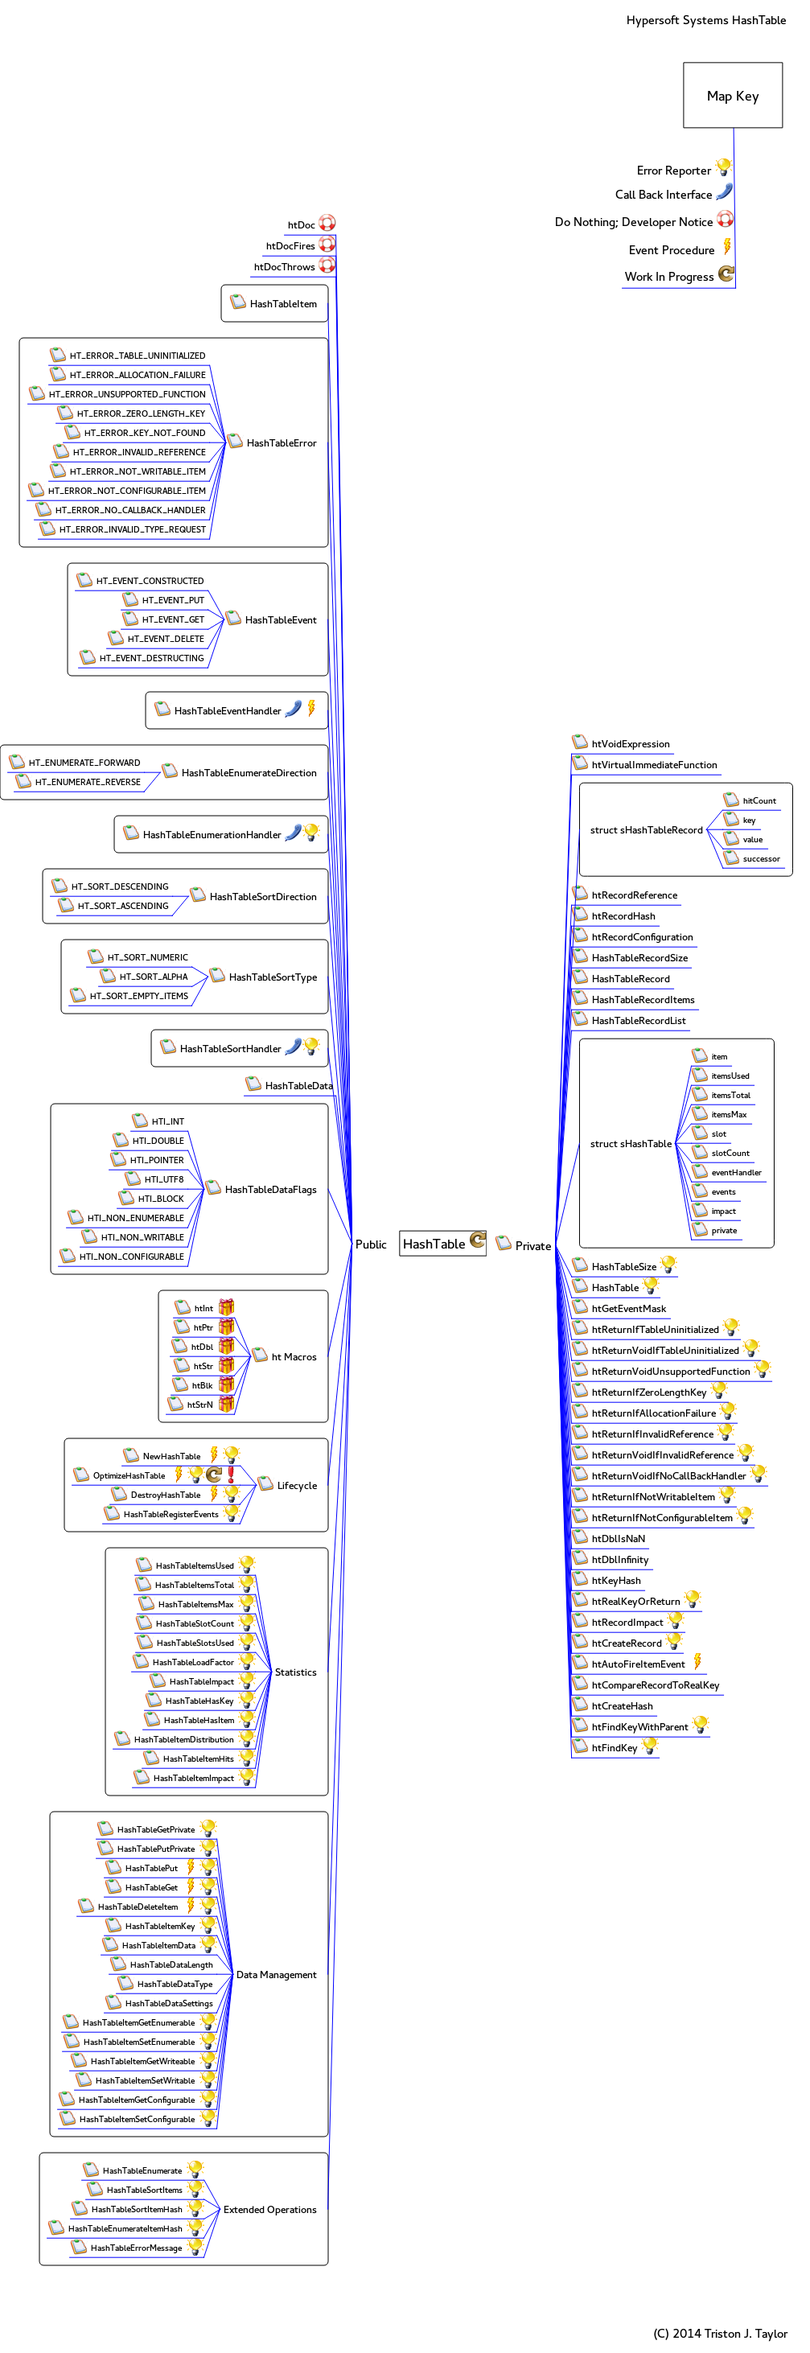
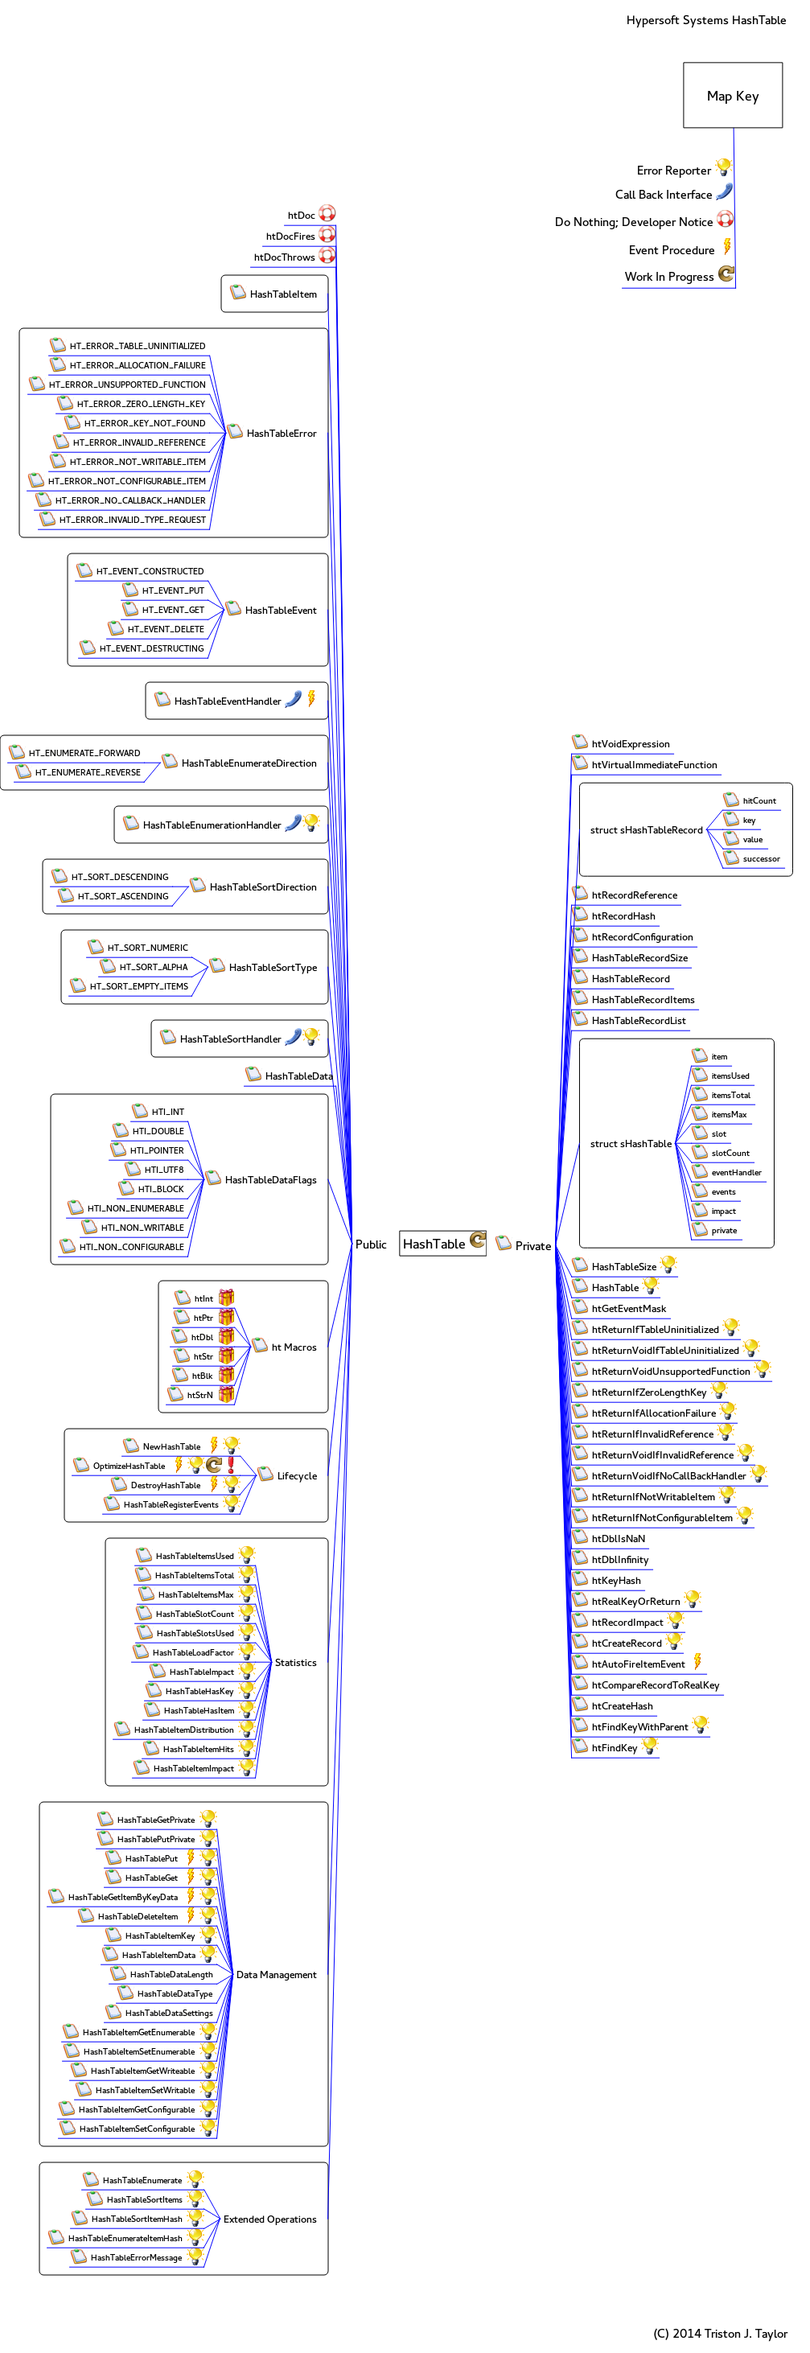
kv api meld level II

Changed region(s): [[0.0, 0.0933, 0.431, 0.9644], [0.0616, 0.7778, 0.0924, 0.8089]]

diff --git a/HashTable.html b/HashTable.html
@@ -377,62 +377,67 @@ HashTableItem HashTablePut(HashTable ht, size_t keyLength, double key, HashTable
 HashTableItem HashTableGet(HashTable ht, size_t keyLength, double key, HashTableDataFlags hint)<br/><br/>Get's an item reference by its key.<br/>
 </td></tr></table>
 </li>
-<li><span class='vym-branch3'  id='mc:1,bo:0,bo:17,bo:4'>HashTableDeleteItem</span>
+<li><span class='vym-branch3'  id='mc:1,bo:0,bo:17,bo:4'>HashTableGetItemByKeyData</span>
+<table class="vym-note"><tr><td>
+HashTableItem HashTableGetItemByKeyData(HashTable hashTable, HashTableData realKey)<br/><br/>Retrieve an item index by it's key pointer.
+</td></tr></table>
+</li>
+<li><span class='vym-branch3'  id='mc:1,bo:0,bo:17,bo:5'>HashTableDeleteItem</span>
 <table class="vym-note"><tr><td>
 bool HashTableDeleteItem(HashTable ht, HashTableItem reference)<br/><br/>Removes an item from a hash table.
 </td></tr></table>
 </li>
-<li><span class='vym-branch3'  id='mc:1,bo:0,bo:17,bo:5'>HashTableItemKey</span>
+<li><span class='vym-branch3'  id='mc:1,bo:0,bo:17,bo:6'>HashTableItemKey</span>
 <table class="vym-note"><tr><td>
 HashTableData HashTableItemKey(HashTable hashTable, HashTableItem reference)<br/><br/>Returns a constant pointer to an item's key.<br/>
 </td></tr></table>
 </li>
-<li><span class='vym-branch3'  id='mc:1,bo:0,bo:17,bo:6'>HashTableItemData</span>
+<li><span class='vym-branch3'  id='mc:1,bo:0,bo:17,bo:7'>HashTableItemData</span>
 <table class="vym-note"><tr><td>
 HashTableData HashTableItemData(HashTable hashTable, HashTableItem reference)<br/><br/>Returns a constant pointer to an item's value.<br/>
 </td></tr></table>
 </li>
-<li><span class='vym-branch3'  id='mc:1,bo:0,bo:17,bo:7'>HashTableDataLength</span>
+<li><span class='vym-branch3'  id='mc:1,bo:0,bo:17,bo:8'>HashTableDataLength</span>
 <table class="vym-note"><tr><td>
 size_t HashTableDataLength(const HashTableData data)<br/><br/>Retrieves the length of the data reference.<br/>
 </td></tr></table>
 </li>
-<li><span class='vym-branch3'  id='mc:1,bo:0,bo:17,bo:8'>HashTableDataType</span>
+<li><span class='vym-branch3'  id='mc:1,bo:0,bo:17,bo:9'>HashTableDataType</span>
 <table class="vym-note"><tr><td>
 HashTableDataFlags HashTableDataType(HashTableData data)<br/><br/>Returns the type information associated with an item's value.<br/>
 </td></tr></table>
 </li>
-<li><span class='vym-branch3'  id='mc:1,bo:0,bo:17,bo:9'>HashTableDataSettings</span>
+<li><span class='vym-branch3'  id='mc:1,bo:0,bo:17,bo:10'>HashTableDataSettings</span>
 <table class="vym-note"><tr><td>
 HashTableDataFlags HashTableDataSettings(HashTableData data)<br/><br/>Retrieve all configuration flags for an item value.<br/>
 </td></tr></table>
 </li>
-<li><span class='vym-branch3'  id='mc:1,bo:0,bo:17,bo:10'>HashTableItemGetEnumerable</span>
+<li><span class='vym-branch3'  id='mc:1,bo:0,bo:17,bo:11'>HashTableItemGetEnumerable</span>
 <table class="vym-note"><tr><td>
 bool HashTableItemGetEnumerable(HashTable hashTable, HashTableItem reference)<br/><br/>Get the item's enumerable flag.<br/>
 </td></tr></table>
 </li>
-<li><span class='vym-branch3'  id='mc:1,bo:0,bo:17,bo:11'>HashTableItemSetEnumerable</span>
+<li><span class='vym-branch3'  id='mc:1,bo:0,bo:17,bo:12'>HashTableItemSetEnumerable</span>
 <table class="vym-note"><tr><td>
 bool HashTableItemSetEnumerable(HashTable hashTable, HashTableItem reference, bool value)<br/><br/>If the item is configurable, set the item's enumerable flag to value.<br/>
 </td></tr></table>
 </li>
-<li><span class='vym-branch3'  id='mc:1,bo:0,bo:17,bo:12'>HashTableItemGetWriteable</span>
+<li><span class='vym-branch3'  id='mc:1,bo:0,bo:17,bo:13'>HashTableItemGetWriteable</span>
 <table class="vym-note"><tr><td>
 bool HashTableItemGetWritable(HashTable hashTable, HashTableItem reference)<br/><br/>Get the item's writable flag.<br/>
 </td></tr></table>
 </li>
-<li><span class='vym-branch3'  id='mc:1,bo:0,bo:17,bo:13'>HashTableItemSetWritable</span>
+<li><span class='vym-branch3'  id='mc:1,bo:0,bo:17,bo:14'>HashTableItemSetWritable</span>
 <table class="vym-note"><tr><td>
 bool HashTableItemSetWritable(HashTable hashTable, HashTableItem reference, bool value)<br/><br/>If the item is configurable, set the item's writable flag to value.<br/>
 </td></tr></table>
 </li>
-<li><span class='vym-branch3'  id='mc:1,bo:0,bo:17,bo:14'>HashTableItemGetConfigurable</span>
+<li><span class='vym-branch3'  id='mc:1,bo:0,bo:17,bo:15'>HashTableItemGetConfigurable</span>
 <table class="vym-note"><tr><td>
 bool HashTableItemGetConfigurable(HashTable hashTable, HashTableItem reference)<br/><br/>Get the item's configurable flag.<br/><br/>
 </td></tr></table>
 </li>
-<li><span class='vym-branch3'  id='mc:1,bo:0,bo:17,bo:15'>HashTableItemSetConfigurable</span>
+<li><span class='vym-branch3'  id='mc:1,bo:0,bo:17,bo:16'>HashTableItemSetConfigurable</span>
 <table class="vym-note"><tr><td>
 bool HashTableItemSetConfigurable(HashTable hashTable, HashTableItem reference, bool value)<br/><br/>If the item is configurable, set the configurable flag to value.<br/>
 </td></tr></table>
@@ -729,98 +734,99 @@ HashTableRecord htFindKey(HashTable table, size_t keyLength, void * realKey)<br/
   <area shape='rect' coords='788.392,197.351,889.392,226.351' href='#mc:0,bo:4'>
   <area shape='rect' coords='496.851,1530.13,582.851,1561.13' href='#mc:1'>
   <area shape='rect' coords='438,1531.52,485,1560.52' href='#mc:1,bo:0'>
-  <area shape='rect' coords='354,266.023,396,292.023' href='#mc:1,bo:0,bo:0'>
-  <area shape='rect' coords='327,292.023,396,318.023' href='#mc:1,bo:0,bo:1'>
-  <area shape='rect' coords='312,318.023,396,344.023' href='#mc:1,bo:0,bo:2'>
-  <area shape='rect' coords='307,364.023,398,390.023' href='#mc:1,bo:0,bo:3'>
-  <area shape='rect' coords='303,537.023,398,563.023' href='#mc:1,bo:0,bo:4'>
-  <area shape='rect' coords='83,430.023,261,454.023' href='#mc:1,bo:0,bo:4,bo:0'>
-  <area shape='rect' coords='83,454.023,261,478.023' href='#mc:1,bo:0,bo:4,bo:1'>
-  <area shape='rect' coords='57,478.023,261,502.023' href='#mc:1,bo:0,bo:4,bo:2'>
-  <area shape='rect' coords='92,502.023,261,526.023' href='#mc:1,bo:0,bo:4,bo:3'>
-  <area shape='rect' coords='101,526.023,261,550.023' href='#mc:1,bo:0,bo:4,bo:4'>
-  <area shape='rect' coords='87,550.023,261,574.023' href='#mc:1,bo:0,bo:4,bo:5'>
-  <area shape='rect' coords='83,574.023,261,598.023' href='#mc:1,bo:0,bo:4,bo:6'>
-  <area shape='rect' coords='56,598.023,261,622.023' href='#mc:1,bo:0,bo:4,bo:7'>
-  <area shape='rect' coords='65,622.023,261,646.023' href='#mc:1,bo:0,bo:4,bo:8'>
-  <area shape='rect' coords='70,646.023,261,670.023' href='#mc:1,bo:0,bo:4,bo:9'>
-  <area shape='rect' coords='301,757.023,398,783.023' href='#mc:1,bo:0,bo:5'>
-  <area shape='rect' coords='116,710.023,259,734.023' href='#mc:1,bo:0,bo:5,bo:0'>
-  <area shape='rect' coords='173,734.023,259,758.023' href='#mc:1,bo:0,bo:5,bo:1'>
-  <area shape='rect' coords='173,758.023,259,782.023' href='#mc:1,bo:0,bo:5,bo:2'>
-  <area shape='rect' coords='155,782.023,259,806.023' href='#mc:1,bo:0,bo:5,bo:3'>
-  <area shape='rect' coords='120,806.023,259,830.023' href='#mc:1,bo:0,bo:5,bo:4'>
-  <area shape='rect' coords='213,870.023,354,896.023' href='#mc:1,bo:0,bo:6'>
-  <area shape='rect' coords='222,947.023,398,973.023' href='#mc:1,bo:0,bo:7'>
-  <area shape='rect' coords='32,936.023,180,960.023' href='#mc:1,bo:0,bo:7,bo:0'>
-  <area shape='rect' coords='40,960.023,180,984.023' href='#mc:1,bo:0,bo:7,bo:1'>
-  <area shape='rect' coords='174,1024.02,354,1050.02' href='#mc:1,bo:0,bo:8'>
-  <area shape='rect' coords='257,1101.02,398,1127.02' href='#mc:1,bo:0,bo:9'>
-  <area shape='rect' coords='85,1090.02,215,1114.02' href='#mc:1,bo:0,bo:9,bo:0'>
-  <area shape='rect' coords='93,1114.02,215,1138.02' href='#mc:1,bo:0,bo:9,bo:1'>
-  <area shape='rect' coords='281,1201.02,398,1227.02' href='#mc:1,bo:0,bo:10'>
-  <area shape='rect' coords='130,1178.02,239,1202.02' href='#mc:1,bo:0,bo:10,bo:0'>
-  <area shape='rect' coords='145,1202.02,239,1226.02' href='#mc:1,bo:0,bo:10,bo:1'>
-  <area shape='rect' coords='108,1226.02,239,1250.02' href='#mc:1,bo:0,bo:10,bo:2'>
-  <area shape='rect' coords='220,1290.02,354,1316.02' href='#mc:1,bo:0,bo:11'>
-  <area shape='rect' coords='326,1336.02,418,1362.02' href='#mc:1,bo:0,bo:12'>
-  <area shape='rect' coords='276,1465.02,398,1491.02' href='#mc:1,bo:0,bo:13'>
-  <area shape='rect' coords='185,1382.02,234,1406.02' href='#mc:1,bo:0,bo:13,bo:0'>
-  <area shape='rect' coords='161,1406.02,234,1430.02' href='#mc:1,bo:0,bo:13,bo:1'>
-  <area shape='rect' coords='158,1430.02,234,1454.02' href='#mc:1,bo:0,bo:13,bo:2'>
-  <area shape='rect' coords='176,1454.02,234,1478.02' href='#mc:1,bo:0,bo:13,bo:3'>
-  <area shape='rect' coords='168,1478.02,234,1502.02' href='#mc:1,bo:0,bo:13,bo:4'>
-  <area shape='rect' coords='105,1502.02,234,1526.02' href='#mc:1,bo:0,bo:13,bo:5'>
-  <area shape='rect' coords='122,1526.02,234,1550.02' href='#mc:1,bo:0,bo:13,bo:6'>
-  <area shape='rect' coords='95,1550.02,234,1574.02' href='#mc:1,bo:0,bo:13,bo:7'>
-  <area shape='rect' coords='334,1673.02,398,1699.02' href='#mc:1,bo:0,bo:14'>
-  <area shape='rect' coords='238,1614.02,270,1638.02' href='#mc:1,bo:0,bo:14,bo:0'>
-  <area shape='rect' coords='237,1638.02,270,1662.02' href='#mc:1,bo:0,bo:14,bo:1'>
-  <area shape='rect' coords='234,1662.02,270,1686.02' href='#mc:1,bo:0,bo:14,bo:2'>
-  <area shape='rect' coords='237,1686.02,270,1710.02' href='#mc:1,bo:0,bo:14,bo:3'>
-  <area shape='rect' coords='235,1710.02,270,1734.02' href='#mc:1,bo:0,bo:14,bo:4'>
-  <area shape='rect' coords='229,1734.02,270,1758.02' href='#mc:1,bo:0,bo:14,bo:5'>
-  <area shape='rect' coords='341,1833.02,398,1859.02' href='#mc:1,bo:0,bo:15'>
-  <area shape='rect' coords='174,1798.02,255,1822.02' href='#mc:1,bo:0,bo:15,bo:0'>
-  <area shape='rect' coords='112,1822.02,211,1846.02' href='#mc:1,bo:0,bo:15,bo:1'>
-  <area shape='rect' coords='159,1846.02,255,1870.02' href='#mc:1,bo:0,bo:15,bo:2'>
-  <area shape='rect' coords='150,1870.02,277,1894.02' href='#mc:1,bo:0,bo:15,bo:3'>
-  <area shape='rect' coords='338,2065.02,398,2091.02' href='#mc:1,bo:0,bo:16'>
-  <area shape='rect' coords='190,1934.02,296,1958.02' href='#mc:1,bo:0,bo:16,bo:0'>
-  <area shape='rect' coords='189,1958.02,296,1982.02' href='#mc:1,bo:0,bo:16,bo:1'>
-  <area shape='rect' coords='193,1982.02,296,2006.02' href='#mc:1,bo:0,bo:16,bo:2'>
-  <area shape='rect' coords='190,2006.02,296,2030.02' href='#mc:1,bo:0,bo:16,bo:3'>
-  <area shape='rect' coords='191,2030.02,296,2054.02' href='#mc:1,bo:0,bo:16,bo:4'>
-  <area shape='rect' coords='186,2054.02,296,2078.02' href='#mc:1,bo:0,bo:16,bo:5'>
-  <area shape='rect' coords='207,2078.02,296,2102.02' href='#mc:1,bo:0,bo:16,bo:6'>
-  <area shape='rect' coords='202,2102.02,296,2126.02' href='#mc:1,bo:0,bo:16,bo:7'>
-  <area shape='rect' coords='200,2126.02,296,2150.02' href='#mc:1,bo:0,bo:16,bo:8'>
-  <area shape='rect' coords='163,2150.02,296,2174.02' href='#mc:1,bo:0,bo:16,bo:9'>
-  <area shape='rect' coords='199,2174.02,296,2198.02' href='#mc:1,bo:0,bo:16,bo:10'>
-  <area shape='rect' coords='187,2198.02,296,2222.02' href='#mc:1,bo:0,bo:16,bo:11'>
+  <area shape='rect' coords='354,254.023,396,280.023' href='#mc:1,bo:0,bo:0'>
+  <area shape='rect' coords='327,280.023,396,306.023' href='#mc:1,bo:0,bo:1'>
+  <area shape='rect' coords='312,306.023,396,332.023' href='#mc:1,bo:0,bo:2'>
+  <area shape='rect' coords='307,352.023,398,378.023' href='#mc:1,bo:0,bo:3'>
+  <area shape='rect' coords='303,525.023,398,551.023' href='#mc:1,bo:0,bo:4'>
+  <area shape='rect' coords='83,418.023,261,442.023' href='#mc:1,bo:0,bo:4,bo:0'>
+  <area shape='rect' coords='83,442.023,261,466.023' href='#mc:1,bo:0,bo:4,bo:1'>
+  <area shape='rect' coords='57,466.023,261,490.023' href='#mc:1,bo:0,bo:4,bo:2'>
+  <area shape='rect' coords='92,490.023,261,514.023' href='#mc:1,bo:0,bo:4,bo:3'>
+  <area shape='rect' coords='101,514.023,261,538.023' href='#mc:1,bo:0,bo:4,bo:4'>
+  <area shape='rect' coords='87,538.023,261,562.023' href='#mc:1,bo:0,bo:4,bo:5'>
+  <area shape='rect' coords='83,562.023,261,586.023' href='#mc:1,bo:0,bo:4,bo:6'>
+  <area shape='rect' coords='56,586.023,261,610.023' href='#mc:1,bo:0,bo:4,bo:7'>
+  <area shape='rect' coords='65,610.023,261,634.023' href='#mc:1,bo:0,bo:4,bo:8'>
+  <area shape='rect' coords='70,634.023,261,658.023' href='#mc:1,bo:0,bo:4,bo:9'>
+  <area shape='rect' coords='301,745.023,398,771.023' href='#mc:1,bo:0,bo:5'>
+  <area shape='rect' coords='116,698.023,259,722.023' href='#mc:1,bo:0,bo:5,bo:0'>
+  <area shape='rect' coords='173,722.023,259,746.023' href='#mc:1,bo:0,bo:5,bo:1'>
+  <area shape='rect' coords='173,746.023,259,770.023' href='#mc:1,bo:0,bo:5,bo:2'>
+  <area shape='rect' coords='155,770.023,259,794.023' href='#mc:1,bo:0,bo:5,bo:3'>
+  <area shape='rect' coords='120,794.023,259,818.023' href='#mc:1,bo:0,bo:5,bo:4'>
+  <area shape='rect' coords='213,858.023,354,884.023' href='#mc:1,bo:0,bo:6'>
+  <area shape='rect' coords='222,935.023,398,961.023' href='#mc:1,bo:0,bo:7'>
+  <area shape='rect' coords='32,924.023,180,948.023' href='#mc:1,bo:0,bo:7,bo:0'>
+  <area shape='rect' coords='40,948.023,180,972.023' href='#mc:1,bo:0,bo:7,bo:1'>
+  <area shape='rect' coords='174,1012.02,354,1038.02' href='#mc:1,bo:0,bo:8'>
+  <area shape='rect' coords='257,1089.02,398,1115.02' href='#mc:1,bo:0,bo:9'>
+  <area shape='rect' coords='85,1078.02,215,1102.02' href='#mc:1,bo:0,bo:9,bo:0'>
+  <area shape='rect' coords='93,1102.02,215,1126.02' href='#mc:1,bo:0,bo:9,bo:1'>
+  <area shape='rect' coords='281,1189.02,398,1215.02' href='#mc:1,bo:0,bo:10'>
+  <area shape='rect' coords='130,1166.02,239,1190.02' href='#mc:1,bo:0,bo:10,bo:0'>
+  <area shape='rect' coords='145,1190.02,239,1214.02' href='#mc:1,bo:0,bo:10,bo:1'>
+  <area shape='rect' coords='108,1214.02,239,1238.02' href='#mc:1,bo:0,bo:10,bo:2'>
+  <area shape='rect' coords='220,1278.02,354,1304.02' href='#mc:1,bo:0,bo:11'>
+  <area shape='rect' coords='326,1324.02,418,1350.02' href='#mc:1,bo:0,bo:12'>
+  <area shape='rect' coords='276,1453.02,398,1479.02' href='#mc:1,bo:0,bo:13'>
+  <area shape='rect' coords='185,1370.02,234,1394.02' href='#mc:1,bo:0,bo:13,bo:0'>
+  <area shape='rect' coords='161,1394.02,234,1418.02' href='#mc:1,bo:0,bo:13,bo:1'>
+  <area shape='rect' coords='158,1418.02,234,1442.02' href='#mc:1,bo:0,bo:13,bo:2'>
+  <area shape='rect' coords='176,1442.02,234,1466.02' href='#mc:1,bo:0,bo:13,bo:3'>
+  <area shape='rect' coords='168,1466.02,234,1490.02' href='#mc:1,bo:0,bo:13,bo:4'>
+  <area shape='rect' coords='105,1490.02,234,1514.02' href='#mc:1,bo:0,bo:13,bo:5'>
+  <area shape='rect' coords='122,1514.02,234,1538.02' href='#mc:1,bo:0,bo:13,bo:6'>
+  <area shape='rect' coords='95,1538.02,234,1562.02' href='#mc:1,bo:0,bo:13,bo:7'>
+  <area shape='rect' coords='334,1661.02,398,1687.02' href='#mc:1,bo:0,bo:14'>
+  <area shape='rect' coords='238,1602.02,270,1626.02' href='#mc:1,bo:0,bo:14,bo:0'>
+  <area shape='rect' coords='237,1626.02,270,1650.02' href='#mc:1,bo:0,bo:14,bo:1'>
+  <area shape='rect' coords='234,1650.02,270,1674.02' href='#mc:1,bo:0,bo:14,bo:2'>
+  <area shape='rect' coords='237,1674.02,270,1698.02' href='#mc:1,bo:0,bo:14,bo:3'>
+  <area shape='rect' coords='235,1698.02,270,1722.02' href='#mc:1,bo:0,bo:14,bo:4'>
+  <area shape='rect' coords='229,1722.02,270,1746.02' href='#mc:1,bo:0,bo:14,bo:5'>
+  <area shape='rect' coords='341,1821.02,398,1847.02' href='#mc:1,bo:0,bo:15'>
+  <area shape='rect' coords='174,1786.02,255,1810.02' href='#mc:1,bo:0,bo:15,bo:0'>
+  <area shape='rect' coords='112,1810.02,211,1834.02' href='#mc:1,bo:0,bo:15,bo:1'>
+  <area shape='rect' coords='159,1834.02,255,1858.02' href='#mc:1,bo:0,bo:15,bo:2'>
+  <area shape='rect' coords='150,1858.02,277,1882.02' href='#mc:1,bo:0,bo:15,bo:3'>
+  <area shape='rect' coords='338,2053.02,398,2079.02' href='#mc:1,bo:0,bo:16'>
+  <area shape='rect' coords='190,1922.02,296,1946.02' href='#mc:1,bo:0,bo:16,bo:0'>
+  <area shape='rect' coords='189,1946.02,296,1970.02' href='#mc:1,bo:0,bo:16,bo:1'>
+  <area shape='rect' coords='193,1970.02,296,1994.02' href='#mc:1,bo:0,bo:16,bo:2'>
+  <area shape='rect' coords='190,1994.02,296,2018.02' href='#mc:1,bo:0,bo:16,bo:3'>
+  <area shape='rect' coords='191,2018.02,296,2042.02' href='#mc:1,bo:0,bo:16,bo:4'>
+  <area shape='rect' coords='186,2042.02,296,2066.02' href='#mc:1,bo:0,bo:16,bo:5'>
+  <area shape='rect' coords='207,2066.02,296,2090.02' href='#mc:1,bo:0,bo:16,bo:6'>
+  <area shape='rect' coords='202,2090.02,296,2114.02' href='#mc:1,bo:0,bo:16,bo:7'>
+  <area shape='rect' coords='200,2114.02,296,2138.02' href='#mc:1,bo:0,bo:16,bo:8'>
+  <area shape='rect' coords='163,2138.02,296,2162.02' href='#mc:1,bo:0,bo:16,bo:9'>
+  <area shape='rect' coords='199,2162.02,296,2186.02' href='#mc:1,bo:0,bo:16,bo:10'>
+  <area shape='rect' coords='187,2186.02,296,2210.02' href='#mc:1,bo:0,bo:16,bo:11'>
   <area shape='rect' coords='290,2441.02,398,2467.02' href='#mc:1,bo:0,bo:17'>
-  <area shape='rect' coords='142,2262.02,248,2286.02' href='#mc:1,bo:0,bo:17,bo:0'>
-  <area shape='rect' coords='142,2286.02,248,2310.02' href='#mc:1,bo:0,bo:17,bo:1'>
-  <area shape='rect' coords='152,2310.02,226,2334.02' href='#mc:1,bo:0,bo:17,bo:2'>
-  <area shape='rect' coords='152,2334.02,226,2358.02' href='#mc:1,bo:0,bo:17,bo:3'>
-  <area shape='rect' coords='118,2358.02,226,2382.02' href='#mc:1,bo:0,bo:17,bo:4'>
-  <area shape='rect' coords='152,2382.02,248,2406.02' href='#mc:1,bo:0,bo:17,bo:5'>
-  <area shape='rect' coords='148,2406.02,248,2430.02' href='#mc:1,bo:0,bo:17,bo:6'>
-  <area shape='rect' coords='158,2430.02,270,2454.02' href='#mc:1,bo:0,bo:17,bo:7'>
-  <area shape='rect' coords='167,2454.02,270,2478.02' href='#mc:1,bo:0,bo:17,bo:8'>
-  <area shape='rect' coords='152,2478.02,270,2502.02' href='#mc:1,bo:0,bo:17,bo:9'>
-  <area shape='rect' coords='99,2502.02,248,2526.02' href='#mc:1,bo:0,bo:17,bo:10'>
-  <area shape='rect' coords='100,2526.02,248,2550.02' href='#mc:1,bo:0,bo:17,bo:11'>
-  <area shape='rect' coords='109,2550.02,248,2574.02' href='#mc:1,bo:0,bo:17,bo:12'>
-  <area shape='rect' coords='115,2574.02,248,2598.02' href='#mc:1,bo:0,bo:17,bo:13'>
-  <area shape='rect' coords='94,2598.02,248,2622.02' href='#mc:1,bo:0,bo:17,bo:14'>
-  <area shape='rect' coords='95,2622.02,248,2646.02' href='#mc:1,bo:0,bo:17,bo:15'>
-  <area shape='rect' coords='274,2733.02,398,2759.02' href='#mc:1,bo:0,bo:18'>
-  <area shape='rect' coords='124,2686.02,232,2710.02' href='#mc:1,bo:0,bo:18,bo:0'>
-  <area shape='rect' coords='129,2710.02,232,2734.02' href='#mc:1,bo:0,bo:18,bo:1'>
-  <area shape='rect' coords='110,2734.02,232,2758.02' href='#mc:1,bo:0,bo:18,bo:2'>
-  <area shape='rect' coords='81,2758.02,232,2782.02' href='#mc:1,bo:0,bo:18,bo:3'>
-  <area shape='rect' coords='109,2782.02,232,2806.02' href='#mc:1,bo:0,bo:18,bo:4'>
+  <area shape='rect' coords='142,2250.02,248,2274.02' href='#mc:1,bo:0,bo:17,bo:0'>
+  <area shape='rect' coords='142,2274.02,248,2298.02' href='#mc:1,bo:0,bo:17,bo:1'>
+  <area shape='rect' coords='152,2298.02,226,2322.02' href='#mc:1,bo:0,bo:17,bo:2'>
+  <area shape='rect' coords='152,2322.02,226,2346.02' href='#mc:1,bo:0,bo:17,bo:3'>
+  <area shape='rect' coords='81,2346.02,226,2370.02' href='#mc:1,bo:0,bo:17,bo:4'>
+  <area shape='rect' coords='118,2370.02,226,2394.02' href='#mc:1,bo:0,bo:17,bo:5'>
+  <area shape='rect' coords='152,2394.02,248,2418.02' href='#mc:1,bo:0,bo:17,bo:6'>
+  <area shape='rect' coords='148,2418.02,248,2442.02' href='#mc:1,bo:0,bo:17,bo:7'>
+  <area shape='rect' coords='158,2442.02,270,2466.02' href='#mc:1,bo:0,bo:17,bo:8'>
+  <area shape='rect' coords='167,2466.02,270,2490.02' href='#mc:1,bo:0,bo:17,bo:9'>
+  <area shape='rect' coords='152,2490.02,270,2514.02' href='#mc:1,bo:0,bo:17,bo:10'>
+  <area shape='rect' coords='99,2514.02,248,2538.02' href='#mc:1,bo:0,bo:17,bo:11'>
+  <area shape='rect' coords='100,2538.02,248,2562.02' href='#mc:1,bo:0,bo:17,bo:12'>
+  <area shape='rect' coords='109,2562.02,248,2586.02' href='#mc:1,bo:0,bo:17,bo:13'>
+  <area shape='rect' coords='115,2586.02,248,2610.02' href='#mc:1,bo:0,bo:17,bo:14'>
+  <area shape='rect' coords='94,2610.02,248,2634.02' href='#mc:1,bo:0,bo:17,bo:15'>
+  <area shape='rect' coords='95,2634.02,248,2658.02' href='#mc:1,bo:0,bo:17,bo:16'>
+  <area shape='rect' coords='274,2745.02,398,2771.02' href='#mc:1,bo:0,bo:18'>
+  <area shape='rect' coords='124,2698.02,232,2722.02' href='#mc:1,bo:0,bo:18,bo:0'>
+  <area shape='rect' coords='129,2722.02,232,2746.02' href='#mc:1,bo:0,bo:18,bo:1'>
+  <area shape='rect' coords='110,2746.02,232,2770.02' href='#mc:1,bo:0,bo:18,bo:2'>
+  <area shape='rect' coords='81,2770.02,232,2794.02' href='#mc:1,bo:0,bo:18,bo:3'>
+  <area shape='rect' coords='109,2794.02,232,2818.02' href='#mc:1,bo:0,bo:18,bo:4'>
   <area shape='rect' coords='637.471,1533.69,690.471,1562.69' href='#mc:1,bo:1'>
   <area shape='rect' coords='732.471,911.187,837.471,937.187' href='#mc:1,bo:1,bo:0'>
   <area shape='rect' coords='732.471,937.187,896.471,963.187' href='#mc:1,bo:1,bo:1'>

diff --git a/src/HashTable.c b/src/HashTable.c
@@ -180,7 +180,7 @@ if ( ! length ) {                                                              \
 }
 
 #define htCompareRecordToRealKey(e, l, k)                                      \
-(varlen(e->key) == l) && (memcmp(e->key, k, l) == 0)
+((e->key == k) || ((varlen(e->key) == l) && (memcmp(e->key, k, l) == 0)))
 
 /* I wouldn't call this on an incomplete record if I were you... */
 #define htRecordImpact(r) (                                                    \
@@ -582,6 +582,33 @@ HashTableItem HashTablePut
 	}
 
 	return HT_ERROR_SENTINEL;
+
+}
+
+HashTableItem HashTableGetItemByKeyData
+(
+	HashTable ht,
+	HashTableData realKey
+) {
+	htReturnIfTableUninitialized(ht);
+
+	if (! realKey) {
+		errno = HT_ERROR_ZERO_LENGTH_KEY; return HT_ERROR_SENTINEL;
+	}
+
+	HashTableRecord item = htFindKey(ht, varlen(realKey), (void*) realKey);
+
+	if (! item) return HT_ERROR_SENTINEL;
+
+	HashTableItem
+		currentSelection = htRecordReference(item),
+		selection = htAutoFireItemEvent(
+				ht, currentSelection, HT_EVENT_GET, item->value
+		)
+	;
+
+	if (selection == currentSelection) item->hitCount++;
+	return selection;
 
 }
 

diff --git a/src/HashTable.h b/src/HashTable.h
@@ -264,6 +264,12 @@ HashTableItem HashTablePut
 	HashTableDataFlags valueHint
 );
 
+HashTableItem HashTableGetItemByKeyData
+(
+	HashTable hashTable,
+	HashTableData realKey
+);
+
 HashTableItem HashTableGet
 (
 	HashTable hashTable,
